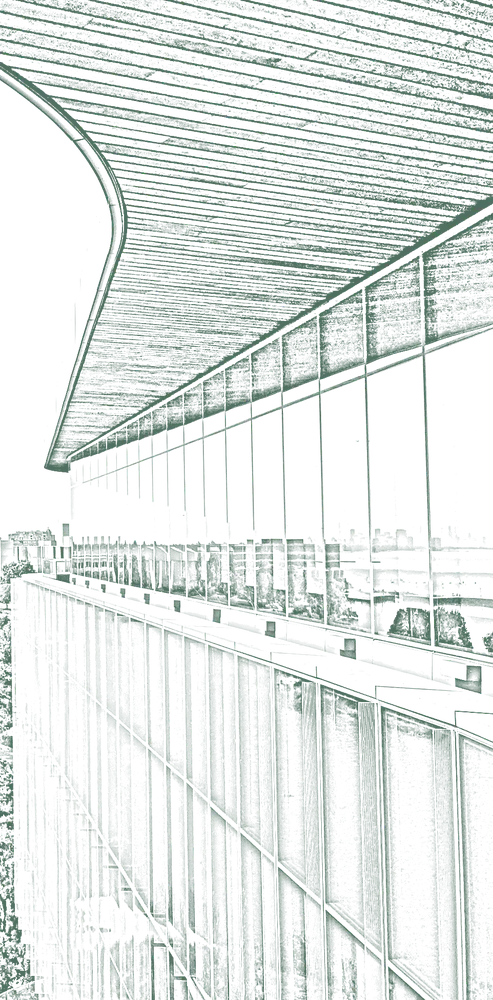
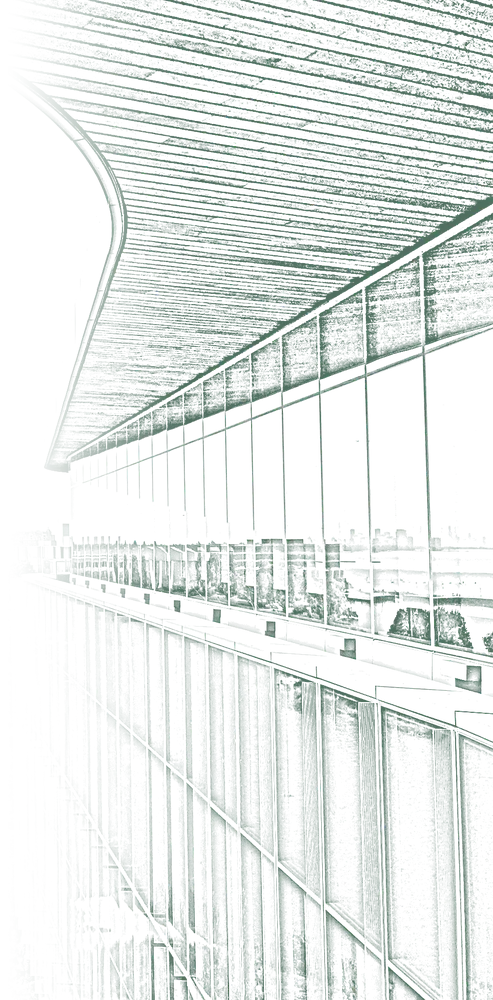
Add files via upload

diff --git a/index.html b/index.html
@@ -11,7 +11,7 @@
     --text: #1a1a1a;
     --muted: #555;
     --rule: #dcd6c8;
-    --bg: #faf5ea;            /* light parchment / cream (was #f9f4e8) */
+    --bg: #fbf6ec;            /* light parchment / cream (was #faf5ea, #f9f4e8) */
   }
   * { box-sizing: border-box; }
   html { scroll-behavior: smooth; }
@@ -114,12 +114,12 @@
     -webkit-mask-composite: source-in; mask-composite: intersect;
   }
   html::before {
-    left: 0; background-image: url("hub-left.webp?v=4"); background-position: left center;
+    left: 0; background-image: url("hub-left.webp?v=5"); background-position: left center;
     -webkit-mask-image: linear-gradient(to right, #000 45%, transparent 100%), linear-gradient(to bottom, transparent 0, #000 12%, #000 88%, transparent 100%);
             mask-image: linear-gradient(to right, #000 45%, transparent 100%), linear-gradient(to bottom, transparent 0, #000 12%, #000 88%, transparent 100%);
   }
   body::before {
-    right: 0; background-image: url("hub-right.webp?v=4"); background-position: right center;
+    right: 0; background-image: url("hub-right.webp?v=5"); background-position: right center;
     -webkit-mask-image: linear-gradient(to left, #000 25%, transparent 100%), linear-gradient(to bottom, transparent 0, #000 12%, #000 88%, transparent 100%);
             mask-image: linear-gradient(to left, #000 25%, transparent 100%), linear-gradient(to bottom, transparent 0, #000 12%, #000 88%, transparent 100%);
   }
